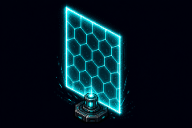
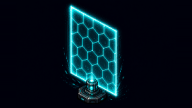
Give every card the same full-bleed art window
Card art came back in four aspect ratios and CSS was containing it, so the
16:9 pieces filled the window while the square and portrait ones left the
card's own backlit viewport showing beside them. Some cards read as full
illustrations, others as a picture sitting on a lit panel.

Normalising now pads each image out to the window's 16:9 rather than
leaving that to CSS, so all 35 are one shape before they reach the
browser. The fill replicates each row's own edge pixel instead of one
sampled colour, which stays seamless where the art has a vignette - and
that is only safe because no card's subject reaches the edge being
extended, which was measured across all 35 before writing it.

Regenerated from masters rather than re-scaling the shipped files, so
nothing went through two lossy resizes. Card art is smaller for it: 1.2MB
down to 704kB.

Changed region(s): [[0.2812, 0.0278, 0.6875, 0.9444]]

diff --git a/src/ui/components/Card.css b/src/ui/components/Card.css
@@ -155,11 +155,18 @@
  * as a letterbox.
  */
 /*
+ * Painted card art, filling the viewport edge to edge.
+ *
+ * Every asset is normalised to this window's 16:9 before it ships (see
+ * scripts/normalize-art.mjs), so `cover` crops nothing — it is only insurance against
+ * sub-pixel rounding. Letting CSS contain mixed aspect ratios instead left the lit
+ * viewport showing beside the narrower pieces, so some cards read as full illustrations
+ * and others as a picture sitting on a panel.
+ *
  * Absolute rather than a grid item: the viewport's height comes from `aspect-ratio`, and
  * a percentage height cannot resolve against that, so `height: 100%` silently became
  * `auto`. The image then took its intrinsic aspect — 92px tall inside a 79px window —
  * and `overflow: hidden` quietly cropped it instead of `object-fit` containing it.
- * `inset: 0` gives a definite box, which is what object-fit needs to mean anything.
  *
  * Still under the scanline overlay `.card__viewport::after` paints, which follows it.
  */
@@ -170,7 +177,7 @@
      still resolves to its intrinsic size and simply ignores the opposite offset. */
   width: 100%;
   height: 100%;
-  object-fit: contain;
+  object-fit: cover;
 }
 
 .card__text {
